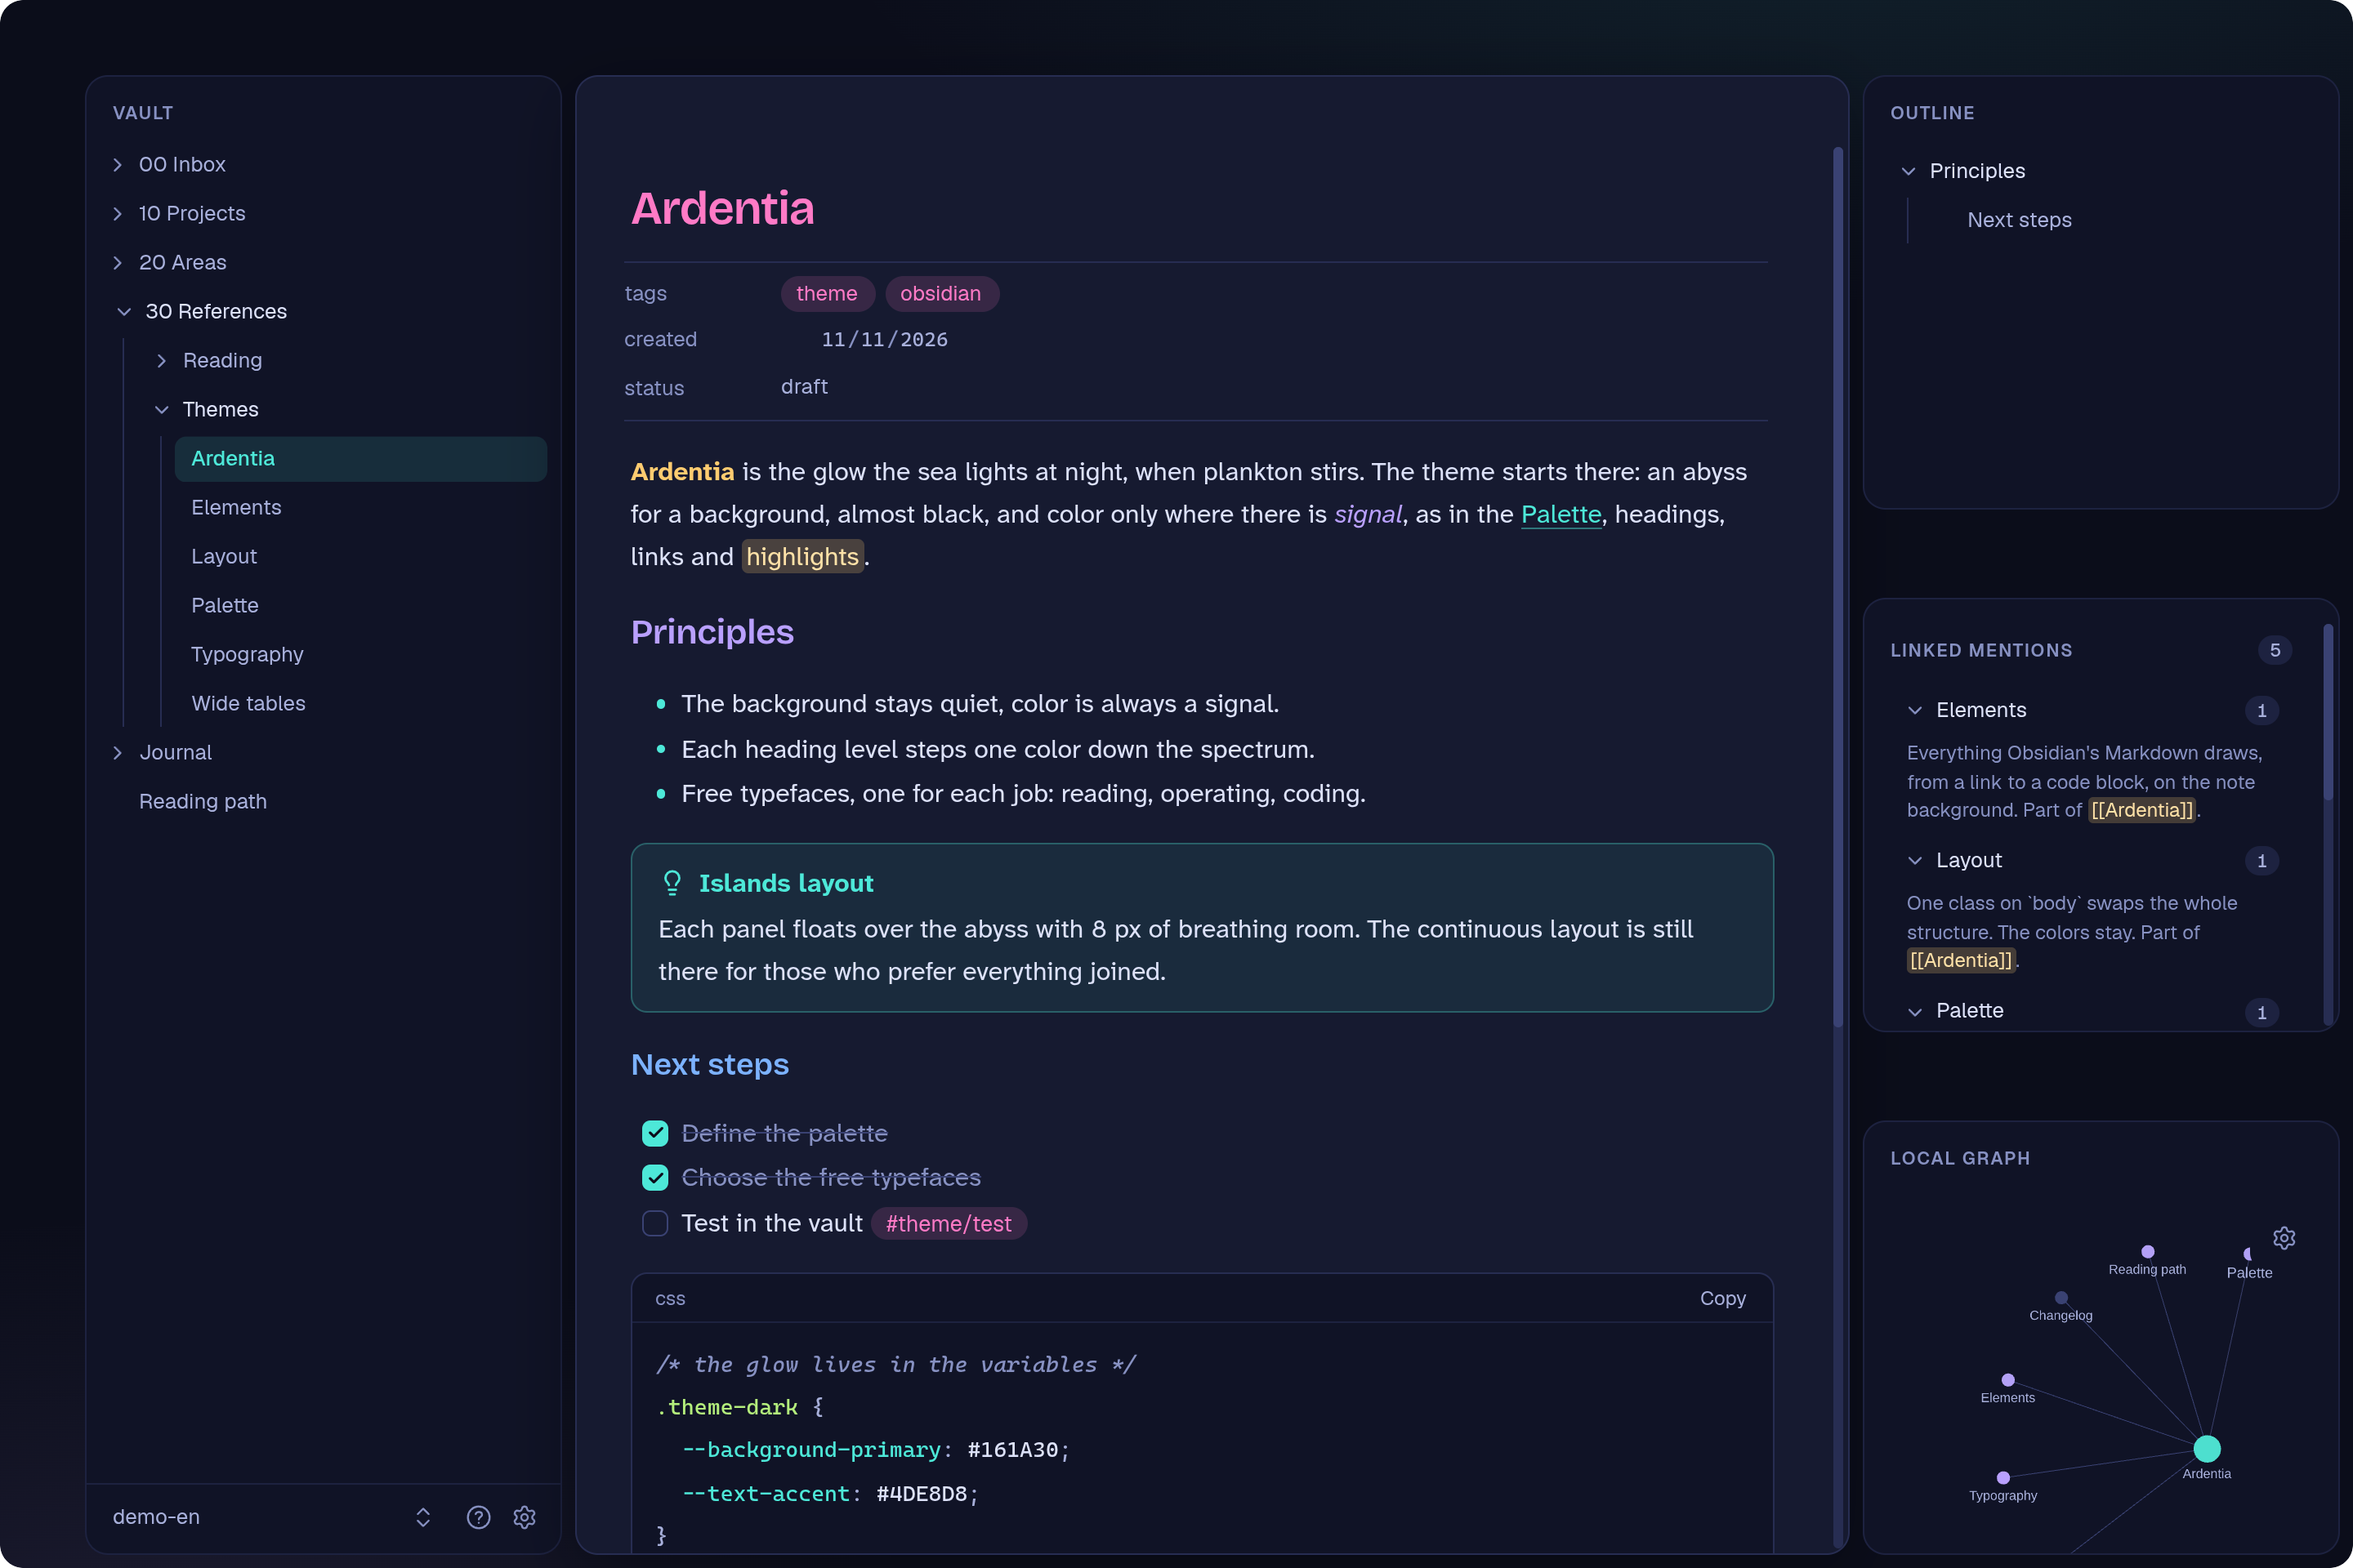
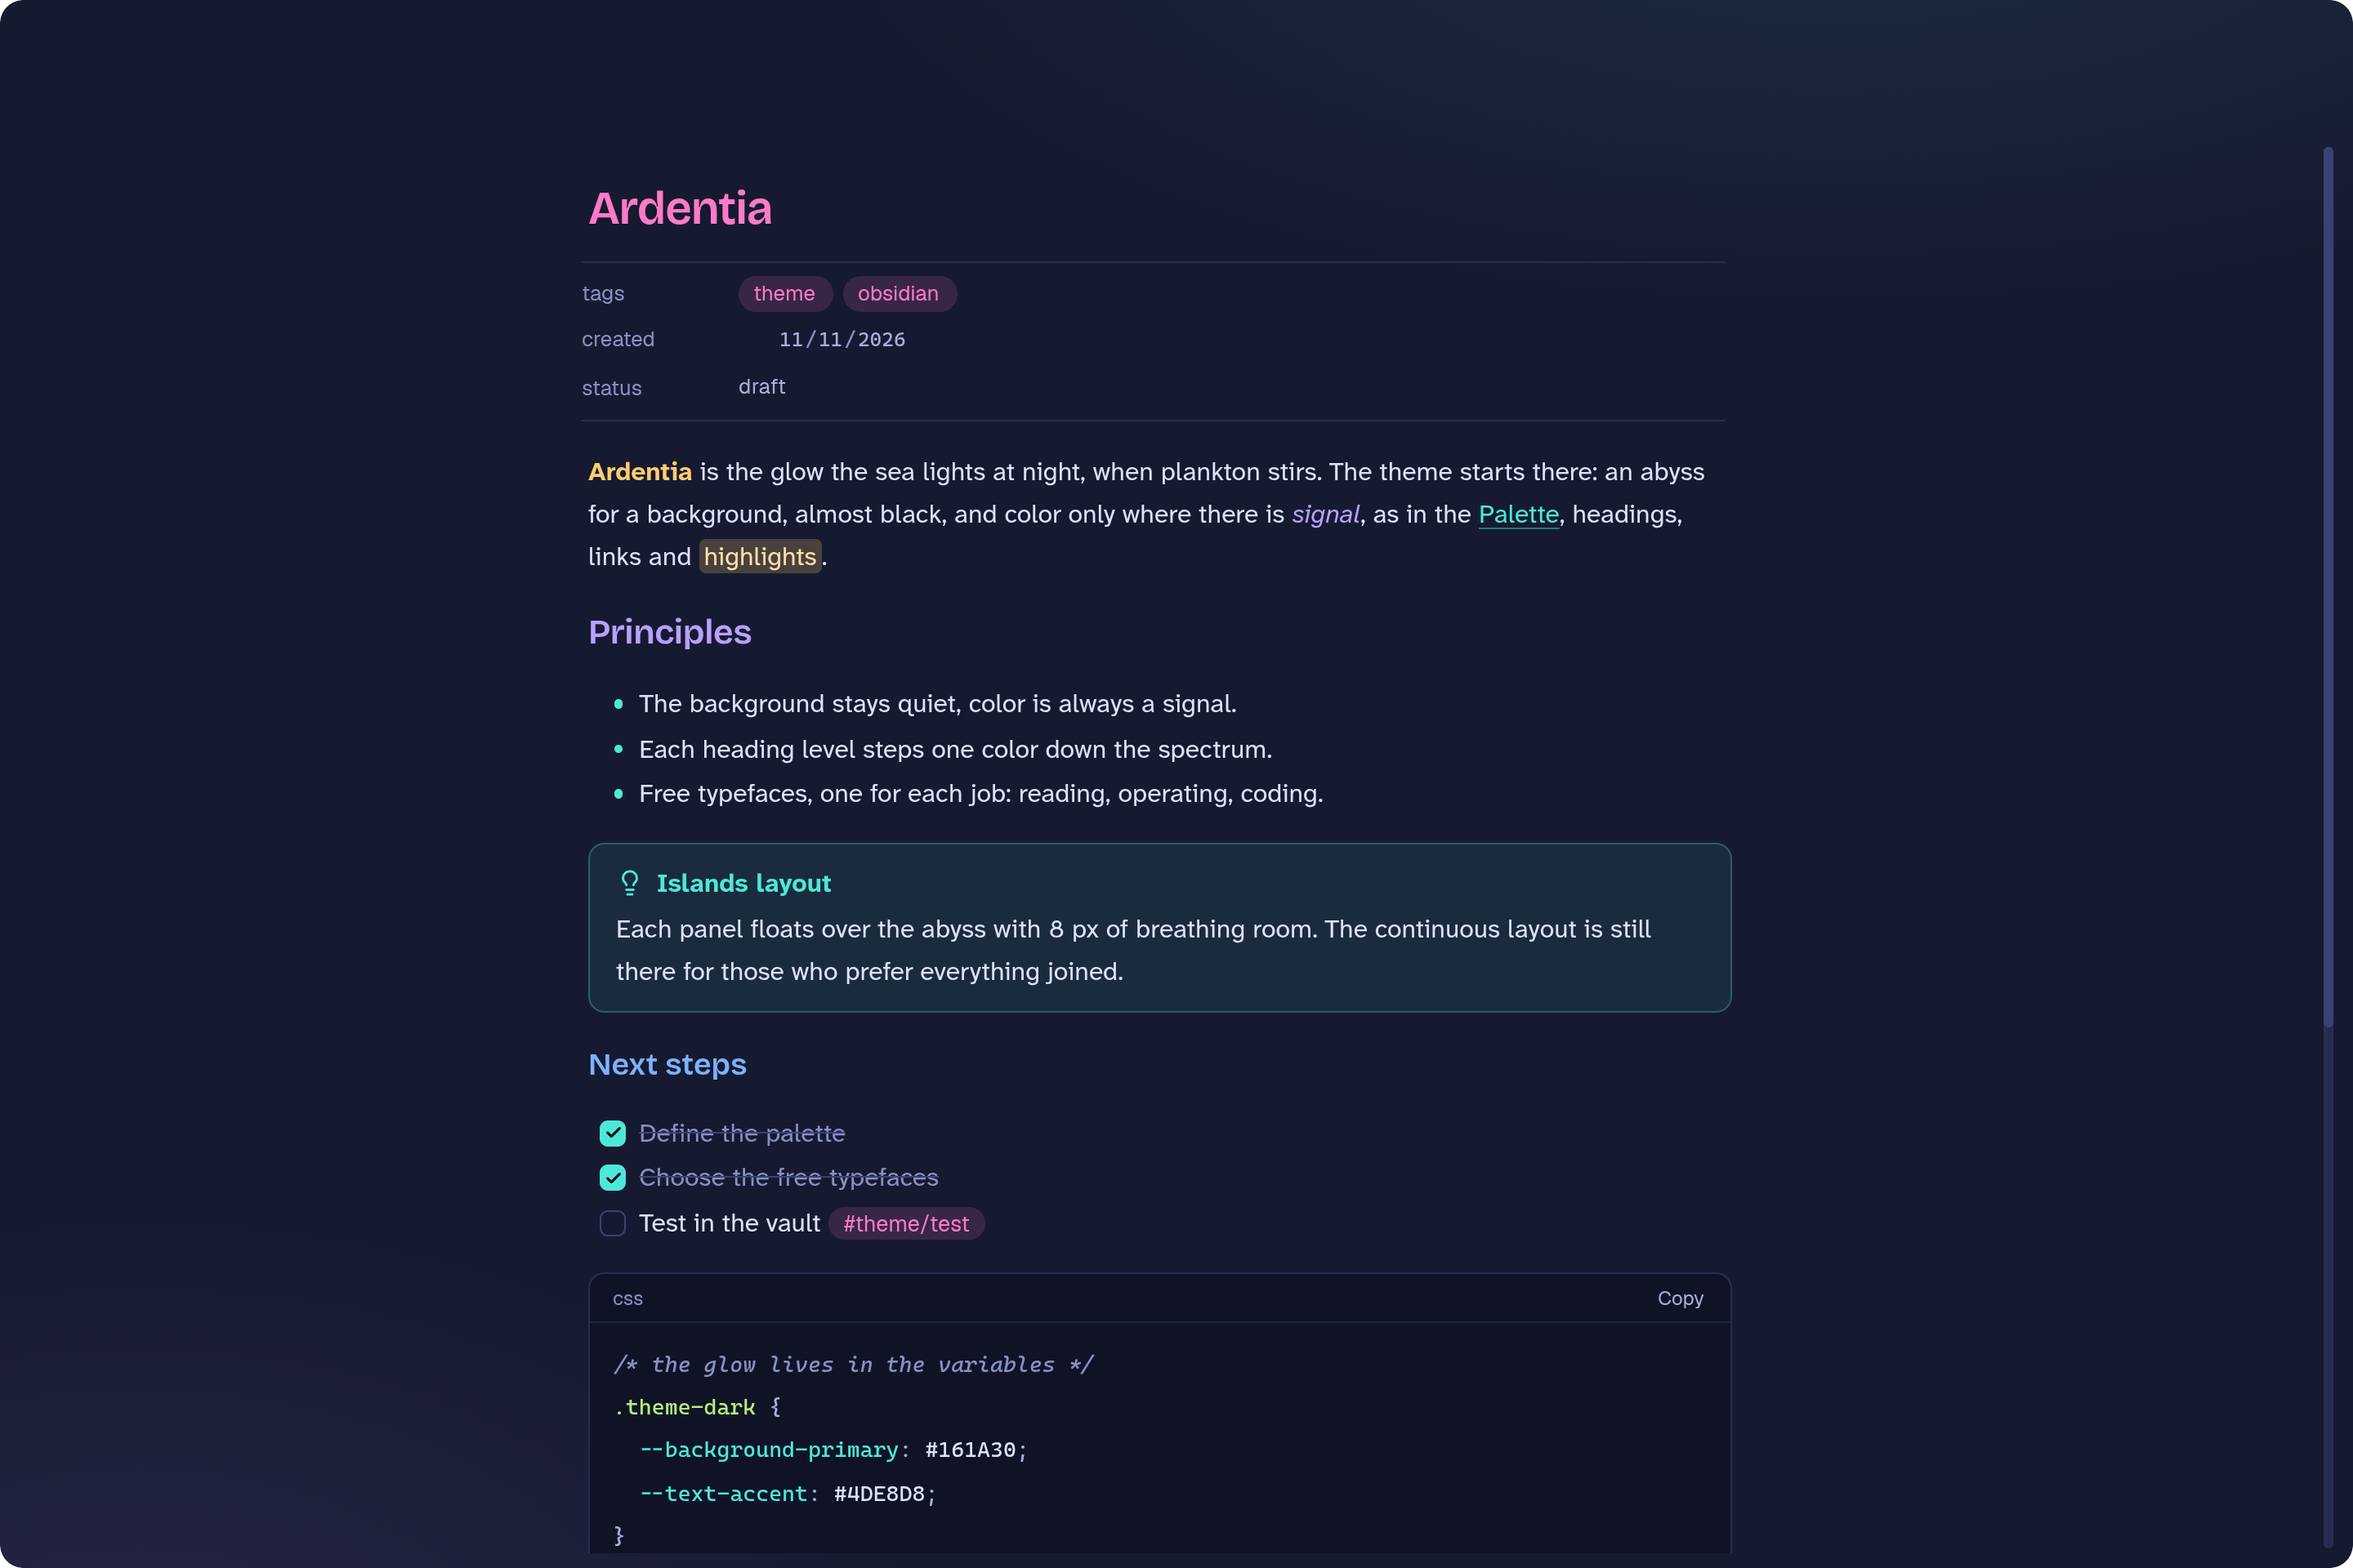
Focus layout shows only the note; transparent scrollbar track on macOS
Focus now hides the sidebars and the ribbon instead of only fading the
chrome, and reserves the window-button space on the note area. On macOS,
where Obsidian uses the native scrollbar and passes it two colors, the
track is transparent again instead of a solid band.

diff --git a/obsidian/theme.css b/obsidian/theme.css
@@ -2875,6 +2875,12 @@ body:not(.is-phone) .horizontal-tab-nav-item.is-active {
    10. Rolagem, seleção e foco de teclado
    ========================================================================== */
 
+/* No macOS a barra é a nativa do sistema e recebe só duas cores. A trilha fica
+   transparente, como no padrão do Obsidian, senão vira uma faixa sólida. */
+body:not(.styled-scrollbars) {
+  --scrollbar-bg: transparent;
+}
+
 body.styled-scrollbars ::-webkit-scrollbar-track {
   border: 3px solid transparent;
   border-radius: 6px;
@@ -3001,11 +3007,32 @@ body.ardentia-continuo .status-bar {
 
 /* ==========================================================================
    12. Layout foco (.ardentia-foco)
-   Faixa de ícones, abas, cabeçalho da nota e barra de status apagam até o
-   mouse chegar perto. Com as laterais recolhidas, fica só a coluna de texto.
+   Só a nota. As barras laterais e a faixa de ícones saem da tela; abas,
+   cabeçalho da nota e barra de status ficam invisíveis até o mouse chegar perto.
    ========================================================================== */
 
+body.ardentia-foco .workspace-split.mod-sidedock,
 body.ardentia-foco .workspace-ribbon,
+body.ardentia-foco .sidebar-toggle-button {
+  display: none;
+}
+
+/* Sem a faixa de ícones, os botões da janela precisam do espaço inteiro */
+body.ardentia-foco {
+  --frame-ribbon-left: 0px;
+  --frame-ribbon-right: 0px;
+}
+
+/* O Obsidian só reserva esse espaço no grupo de abas que ele sabe estar no canto.
+   Com as laterais escondidas por CSS, o canto passa a ser a área das notas. */
+body.ardentia-foco.is-hidden-frameless:not(.is-fullscreen) .mod-root > .workspace-tabs.mod-top:not(.workspace-tabs ~ .workspace-tabs) > .workspace-tab-header-container {
+  padding-left: calc(var(--size-4-2) + var(--frame-left-space));
+}
+
+body.ardentia-foco.is-hidden-frameless:not(.is-fullscreen) .mod-root > .workspace-tabs.mod-top:not(:has(~ .workspace-tabs)) > .workspace-tab-header-container {
+  padding-right: calc(var(--size-4-2) + var(--frame-right-space));
+}
+
 body.ardentia-foco .workspace-tab-header-container,
 body.ardentia-foco .mod-root .view-header,
 body.ardentia-foco .status-bar,
@@ -3014,27 +3041,24 @@ body.ardentia-foco .titlebar-button-container {
   transition: opacity 0.2s ease-in-out 0.3s;
 }
 
-body.ardentia-foco .workspace-ribbon:hover,
-body.ardentia-foco .workspace-ribbon:focus-within,
 body.ardentia-foco .workspace-tab-header-container:hover,
 body.ardentia-foco .workspace-tab-header-container:focus-within,
 body.ardentia-foco .mod-root .view-header:hover,
 body.ardentia-foco .mod-root .view-header:focus-within,
 body.ardentia-foco .status-bar:hover,
 body.ardentia-foco .titlebar-button-container:hover,
-body.ardentia-foco .workspace-ribbon:has(.has-active-menu),
 body.ardentia-foco .workspace-tab-header-container:has(.has-active-menu),
 body.ardentia-foco .mod-root .view-header:has(.has-active-menu) {
   opacity: 1;
   transition-delay: 0s;
 }
 
-/* Laterais recolhidas: a nota ocupa a janela inteira, sem moldura */
-body.ardentia-foco .app-container:has(.workspace:not(.is-left-sidedock-open):not(.is-right-sidedock-open)) {
+/* A nota ocupa a janela inteira, sem moldura de ilha */
+body.ardentia-foco .app-container {
   background-color: var(--ardentia-nota);
 }
 
-body.ardentia-foco .workspace:not(.is-left-sidedock-open):not(.is-right-sidedock-open) .mod-root .workspace-tab-container {
+body.ardentia-foco .mod-root .workspace-tab-container {
   border-color: transparent;
   box-shadow: none;
   background-color: transparent;

diff --git a/README.md b/README.md
@@ -26,7 +26,7 @@ It is one palette, four typefaces and a handful of shapes, ported app by app.
 
 A dark theme for Obsidian 1.6 and later. It is not a recolor: panels, tabs, the status bar, properties, callouts, code blocks, menus and the settings window were all redrawn.
 
-- **Three layouts over the same colors.** Floating islands by default, a continuous layout for those who prefer everything joined, and a focus layout that dims the chrome until the mouse gets near.
+- **Three layouts over the same colors.** Floating islands by default, a continuous layout for those who prefer everything joined, and a focus layout that leaves only the note on screen.
 - **A heading spectrum.** Each heading level steps one color down, from Água-viva pink at H1 to Lanterna yellow at H6.
 - **One typeface per job.** Bricolage Grotesque for headings, Atkinson Hyperlegible Next for reading, Geist for the interface, Cascadia Code for code.
 - **Glow on a single dial.** Every halo in the theme answers to one variable, from off to double.
@@ -58,7 +58,7 @@ One class on `body` swaps the whole structure. The colors stay.
 | --- | --- | --- |
 | Ilhas (islands) | default, no class | Rounded panels floating over the abyss, pill tabs, status bar in a capsule |
 | Contínuo (continuous) | `.ardentia-continuo` | Obsidian's native structure, panels joined, 1 px dividers |
-| Foco (focus) | `.ardentia-foco` | Ribbon, tabs, note header and status bar fade out until the mouse comes close |
+| Foco (focus) | `.ardentia-foco` | Only the note. Sidebars and ribbon leave the screen; tabs, note header and status bar stay invisible until the mouse comes close |
 
 | Contínuo | Foco |
 | --- | --- |

diff --git a/obsidian/demo/30 Referências/Temas/Layout.md b/obsidian/demo/30 Referências/Temas/Layout.md
@@ -14,4 +14,4 @@ A estrutura nativa do Obsidian, painéis colados e divisores de 1 px.
 
 ## Foco
 
-Faixa de ícones, abas, cabeçalho da nota e barra de status apagam até o mouse chegar perto.
+Só a nota. Barras laterais e faixa de ícones saem da tela; abas, cabeçalho da nota e barra de status ficam invisíveis até o mouse chegar perto.

diff --git a/obsidian/demo-en/30 References/Themes/Layout.md b/obsidian/demo-en/30 References/Themes/Layout.md
@@ -14,4 +14,4 @@ Obsidian's native structure, panels joined and 1 px dividers.
 
 ## Focus
 
-Ribbon, tabs, note header and status bar fade out until the mouse comes close.
+Only the note. Sidebars and ribbon leave the screen; tabs, note header and status bar stay invisible until the mouse comes close.
